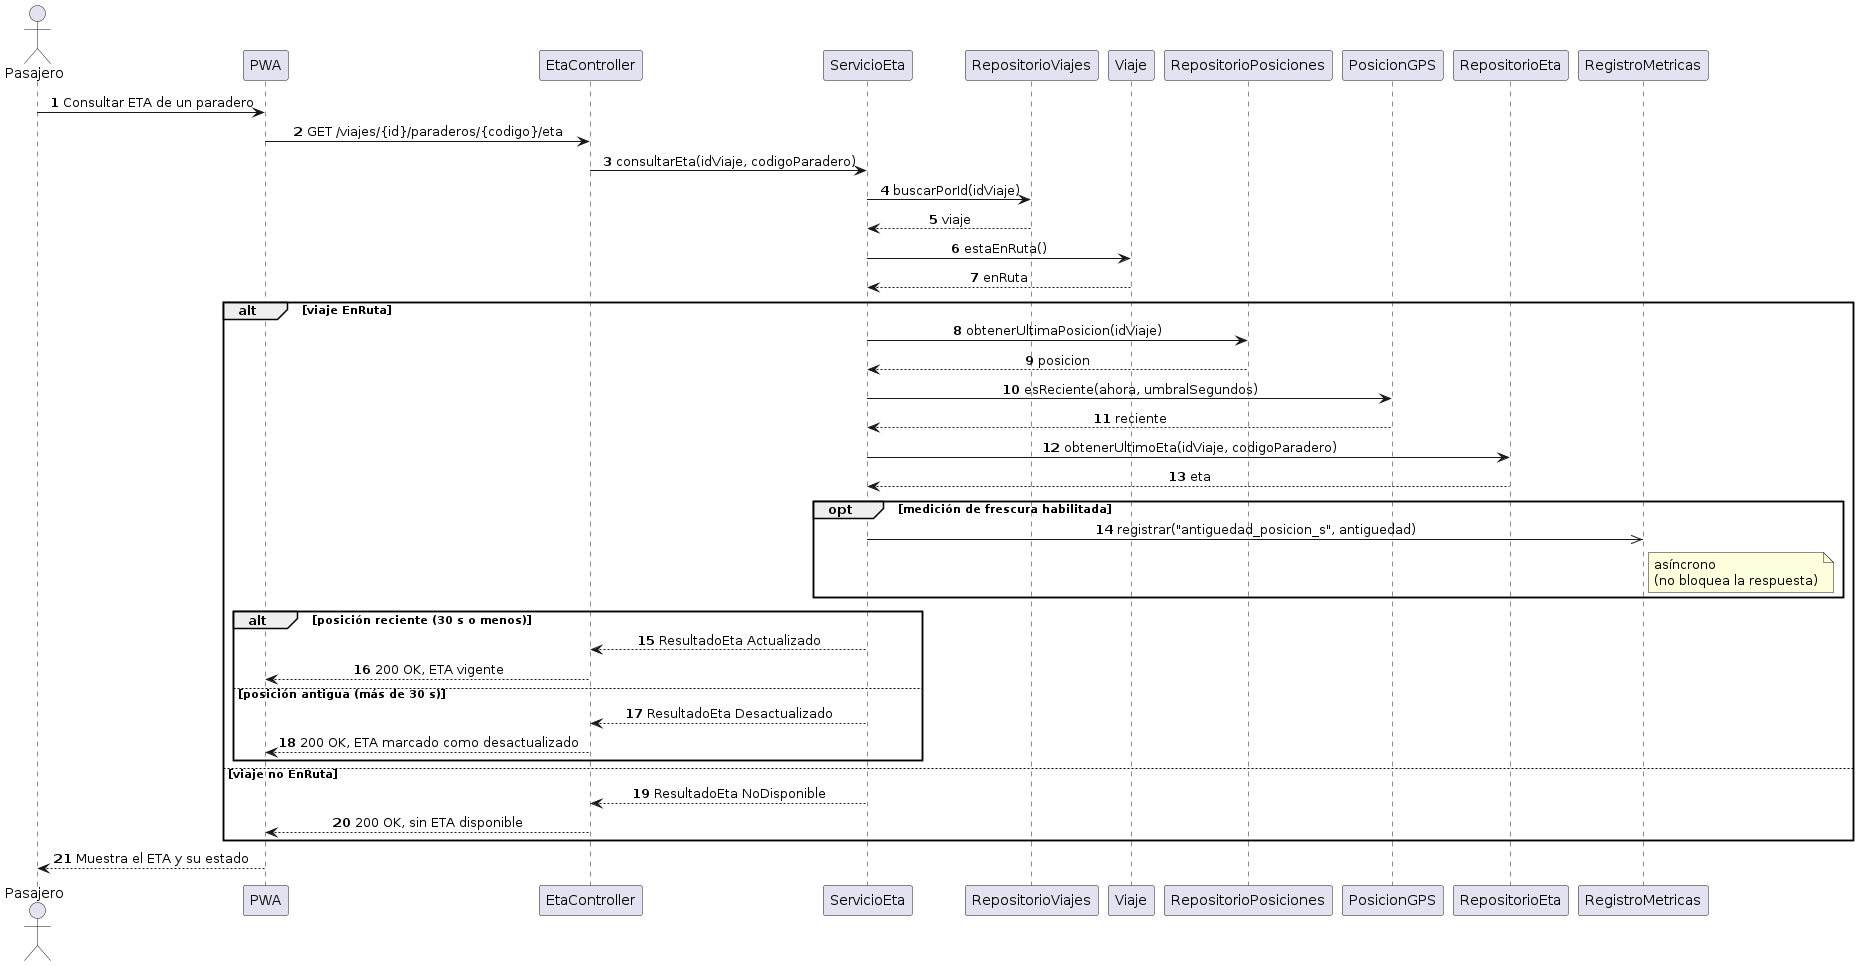
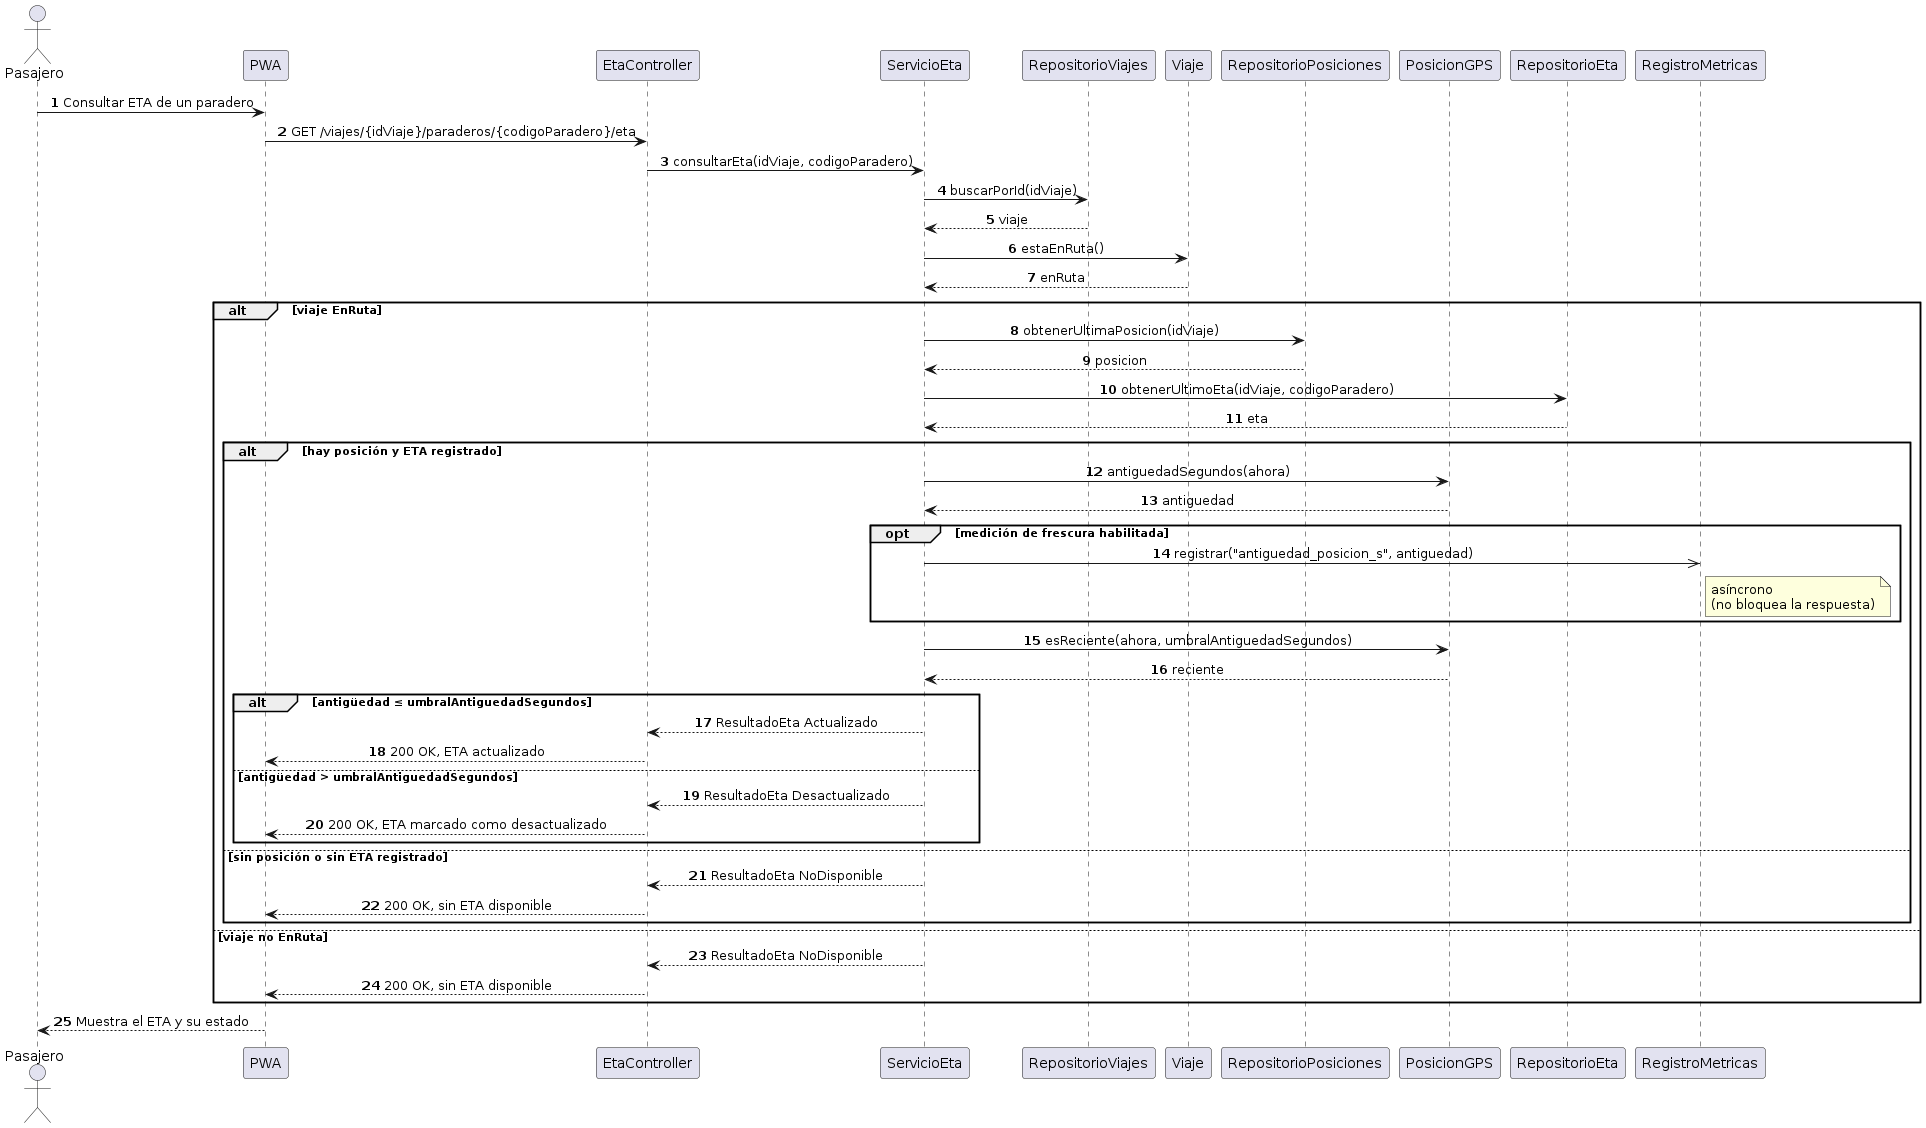
E7. Revisión de consistencia y bitácora de IA

diff --git a/src/rutasit/dominio.py b/src/rutasit/dominio.py
@@ -57,9 +57,11 @@ class PosicionGPS:
     velocidad: float
     marca_tiempo: datetime
 
-    def es_reciente(self, ahora: datetime, umbral_segundos: int) -> bool:
-        return (ahora - self.marca_tiempo).total_seconds() <= umbral_segundos
+    def antiguedad_segundos(self, ahora: datetime) -> int:
+        return int((ahora - self.marca_tiempo).total_seconds())
 
+    def es_reciente(self, ahora: datetime, umbral_antiguedad_segundos: int) -> bool:
+        return self.antiguedad_segundos(ahora) <= umbral_antiguedad_segundos
 
 @dataclass
 class Viaje:
@@ -159,7 +161,7 @@ class ServicioEta:
         if posicion is None or eta is None:
             return ResultadoEta(EstadoEta.NO_DISPONIBLE, "Aún no hay datos para este paradero")
         ahora = datetime.now()
-        antiguedad = int((ahora - posicion.marca_tiempo).total_seconds())
+        antiguedad = posicion.antiguedad_segundos(ahora)
         self.registro_metricas.registrar("antiguedad_posicion_s", antiguedad)
         if posicion.es_reciente(ahora, self.umbral_antiguedad_segundos):
             return ResultadoEta(EstadoEta.ACTUALIZADO, "ETA vigente", eta)
@@ -167,3 +169,36 @@ class ServicioEta:
 
     def recalcular_eta(self, id_viaje: str, posicion: PosicionGPS) -> None:
         raise NotImplementedError("Algoritmo de ETA pendiente (proyección sobre la ruta)")
+
+@dataclass
+class Alerta:
+    id_viaje: str
+    tipo: str
+    hora_generacion: datetime
+
+
+class RepositorioAlertas(ABC):
+    @abstractmethod
+    def guardar(self, alerta: Alerta) -> None: ...
+
+
+class ServicioAlertas:
+    def __init__(
+        self,
+        repositorio_alertas: RepositorioAlertas,
+        umbral_desvio_metros: float,
+        lecturas_para_desvio: int,
+        segundos_para_detencion: int,
+    ) -> None:
+        self.repositorio_alertas = repositorio_alertas
+        self.umbral_desvio_metros = umbral_desvio_metros
+        self.lecturas_para_desvio = lecturas_para_desvio
+        self.segundos_para_detencion = segundos_para_detencion
+
+    def evaluar_posicion(self, viaje: Viaje, posicion: PosicionGPS) -> None:
+        raise NotImplementedError("Cálculo de distancia a la ruta pendiente")
+
+    def registrar_alerta(self, id_viaje: str, tipo: str) -> Alerta:
+        alerta = Alerta(id_viaje, tipo, datetime.now())
+        self.repositorio_alertas.guardar(alerta)
+        return alerta

diff --git a/docs/design/consistencia.md b/docs/design/consistencia.md
@@ -1,0 +1,39 @@
+# Consistencia (C1–C5) — RutaSIT Arequipa
+
+Herramienta: Claude (Prompt IA 3). Los hallazgos se verificaron contra los cinco diagramas.
+Resumen: 26 hallazgos; 17 aceptados, 2 parciales, 5 falsos positivos y 2 rechazados por decisión de diseño.
+
+| # | Regla | Hallazgo de la IA | Verificación del equipo | Decisión |
+|---|-------|-------------------|-------------------------|----------|
+| 1 | C1 | EtaController no existe en el diagrama de clases | Es de la capa de presentación, fuera de los módulos modelados; la guía hace lo mismo con PedidoController | Falso positivo |
+| 2 | C1 | Los puertos devuelven Optional pero la secuencia no muestra el caso vacío | Correcto: faltaba la rama | Aceptado: se agregó el alt "sin posición o sin ETA registrado" |
+| 3 | C1 | `antiguedad` no se calcula en ningún mensaje | Correcto | Aceptado: se agregó `antiguedadSegundos(ahora)` en PosicionGPS y el mensaje en la secuencia |
+| 4 | C1 | Validar token, calcular distancia y registrar alerta (diagrama de actividades) no son operaciones del diagrama de clases | C1 aplica solo a mensajes de secuencia, no a acciones de actividades | Falso positivo |
+| 5 | C1 | iniciar, marcarDetenido, reanudar, finalizar, guardarEta y obtenerParaderosOrdenados no aparecen en S ni en A | C1 exige que cada mensaje sea una operación, no que cada operación aparezca en una secuencia; esas operaciones se cubren en E3 y E6 | Falso positivo |
+| 6 | C2 | Las guardas de E no tienen dueño; N, T y el umbral no existen en las clases | Correcto | Aceptado: ServicioAlertas con umbralDesvioMetros, lecturasParaDesvio (N) y segundosParaDetencion (T) |
+| 7 | C2 | A marca Desviado en cada lectura y no cubre reanudar, marcarDetenido ni finalizar | Parcial: faltaban la guarda "EnRuta" y el reanudar; A modela solo la detección de desvío, no todo el ciclo de vida | Parcial: se agregó la guarda y la acción de reanudar |
+| 8 | C2 | A recalcula el ETA de un viaje Desviado, pero estaEnRuta() es falso y devuelve NoDisponible | Correcto: inconsistencia real | Aceptado: A deja el ETA NoDisponible mientras el viaje esté Desviado |
+| 9 | C2 | [*] → Programado no tiene operación | La transición inicial corresponde a la creación del Viaje | Parcial: se etiquetó "crear viaje" |
+| 10 | C2 | EstadoEta no cambia por ninguna operación | EstadoEta no es una máquina de estados; clasifica el resultado de una consulta | Falso positivo |
+| 11 | C3 | La guarda "hay bus asignado" es siempre verdadera (Bus 1 – 0..* Viaje) | Correcto | Aceptado: guarda cambiada a [hora de salida alcanzada] |
+| 12 | C3 | Dos asociaciones no expresan un solo ETA por (viaje, paradero) | Correcto | Aceptado: nota con el invariante en Eta |
+| 13 | C3 | La composición Viaje–PosicionGPS es abierta porque las posiciones viven en el repositorio | El ADR-003 guarda el histórico de posiciones por viaje y una posición no existe sin su viaje; el repositorio es un detalle de persistencia | Falso positivo |
+| 14 | C3 | estado está duplicado como atributo y como asociación al enum | Se mantiene como en el ejemplo de la guía (Pedido --> EstadoPedido más el atributo estado) | Rechazado (decisión de diseño) |
+| 15 | C3 | 0..1 Eta no impone los invariantes de ResultadoEta | Parcial: el invariante sí faltaba; la construcción del resultado es interna de ServicioEta | Aceptado: nota de invariante en ResultadoEta |
+| 16 | C4 | Las asociaciones sin dirección implican ciclos UBI↔ETA y RUT↔ETA | Correcto: ciclo real | Aceptado: Eta → Viaje y Eta → Paradero son direccionales |
+| 17 | C4 | A encadena desvío, alerta y ETA entre paquetes sin orquestador | Correcto en parte | Aceptado: la nota de P indica que la capa de presentación orquesta; A ya no invoca a ETA |
+| 18 | C4 | Los enums no pertenecen a ningún paquete | Correcto | Aceptado: EstadoViaje en Ubicaciones y EstadoEta en ETA |
+| 19 | C4 | La nota "solo por interfaces públicas" contradice el uso de clases concretas | Correcto | Aceptado: nota reescrita |
+| 20 | C4 | Alertas no existe en el diagrama de clases | Correcto | Aceptado: paquete Alertas agregado |
+| 21 | C5 | umbralSegundos vs umbralAntiguedadSegundos | Correcto | Aceptado: se unificó el nombre |
+| 22 | C5 | "umbral" designa a la vez una distancia y un tiempo | Correcto | Aceptado: umbralDesvioMetros y umbralAntiguedadSegundos |
+| 23 | C5 | "30 s" está escrito a mano en la secuencia | Correcto | Aceptado: la secuencia usa el atributo |
+| 24 | C5 | "ETA vigente" no coincide con Actualizado | Correcto | Aceptado |
+| 25 | C5 | La URL usa {id} y {codigo}, el modelo idViaje y codigoParadero | Correcto | Aceptado: URL renombrada |
+| 26 | C5 | El paquete se llama ETA y las clases Eta, EstadoEta, ResultadoEta | El paquete conserva el nombre del módulo del ADR-001 | Rechazado (decisión de diseño) |
+
+## Falsos positivos y qué habría pasado si se aceptaban sin verificar
+- **#1 y #4:** habríamos llenado el diagrama de clases con controladores y acciones de proceso que no son clases del dominio.
+- **#5:** habríamos obligado a que todas las operaciones aparezcan en una secuencia, inflando un diagrama pensado para un solo flujo.
+- **#10:** habríamos creado una máquina de estados innecesaria para EstadoEta.
+- **#13:** habríamos quitado la composición y perdido la regla de que el histórico de posiciones depende del viaje (ADR-003).

diff --git a/docs/design/bitacora-ia.md b/docs/design/bitacora-ia.md
@@ -4,3 +4,4 @@
 | 2 | 10/10 | Claude | Generar el diagrama de secuencia de HU-01 a partir de clases.puml | 10 líneas de vida con alt, opt y un mensaje asíncrono de métricas | Se verificó C1: el mensaje registrar() no existía en ninguna clase; se agregó el puerto RegistroMetricas al diagrama de clases. Se comprobó que los 3 criterios de HU-01 quedan cubiertos | Corregida |
 | 3 | 10/10 | Claude | Generar la máquina de estados de Viaje en Mermaid | 5 estados, 5 guardas y transiciones con operaciones de Viaje | Se verificó C2: todas las transiciones usan operaciones de Viaje y los estados coinciden con EstadoViaje; se validó en mermaid.live | Aceptada |
 | 4 | 10/10 | Claude | Prompt IA 2: esqueleto Python de clases.puml | dominio.py con dataclasses, enumeraciones y puertos como ABC | Se ejecutó pyreverse y se comparó con el diseño (round-trip.md) | Aceptada |
+| 5 | 10/10 | Claude | Prompt IA 3: auditoría de consistencia C1–C5 sobre los 5 diagramas | 26 hallazgos | Se verificó cada hallazgo contra los diagramas: 17 aceptados, 2 parciales, 5 falsos positivos y 2 rechazados por decisión de diseño; se corrigieron el ciclo de paquetes (asociaciones sin dirección), el recálculo del ETA en Desviado y la falta del módulo Alertas | Corregida |
